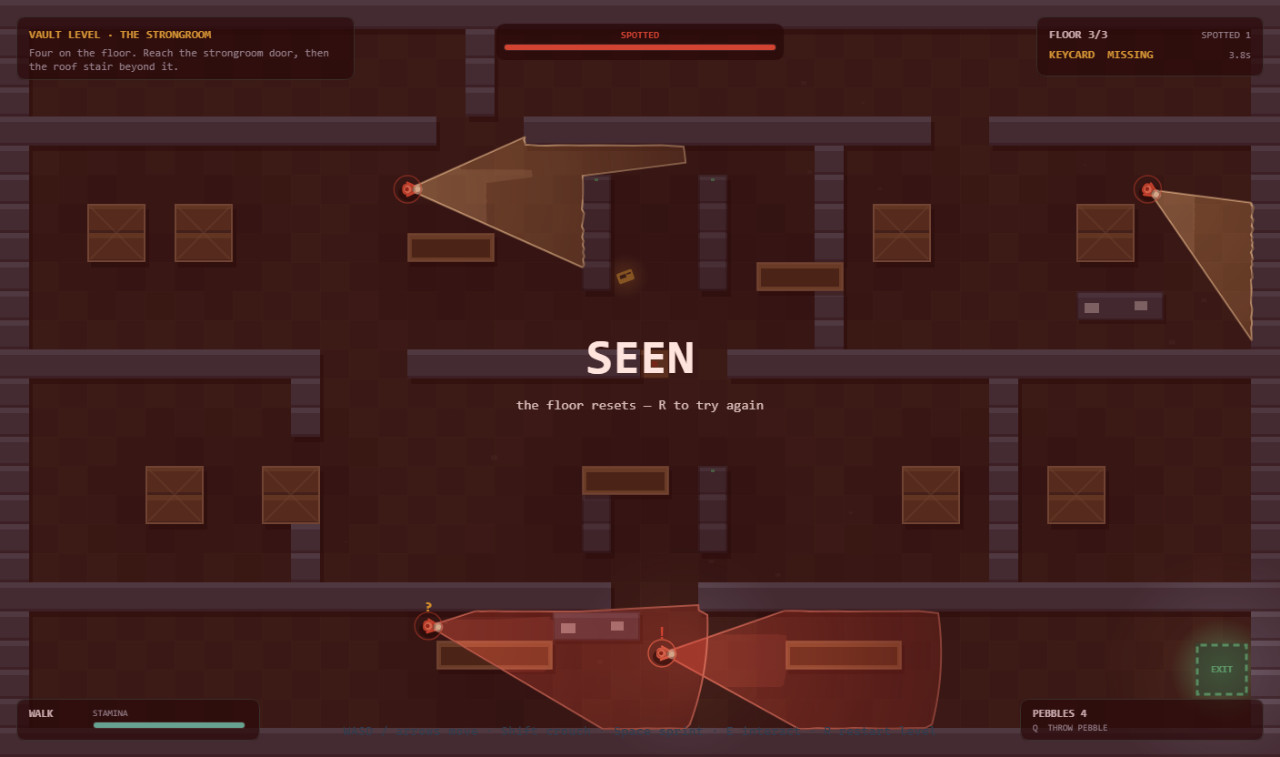
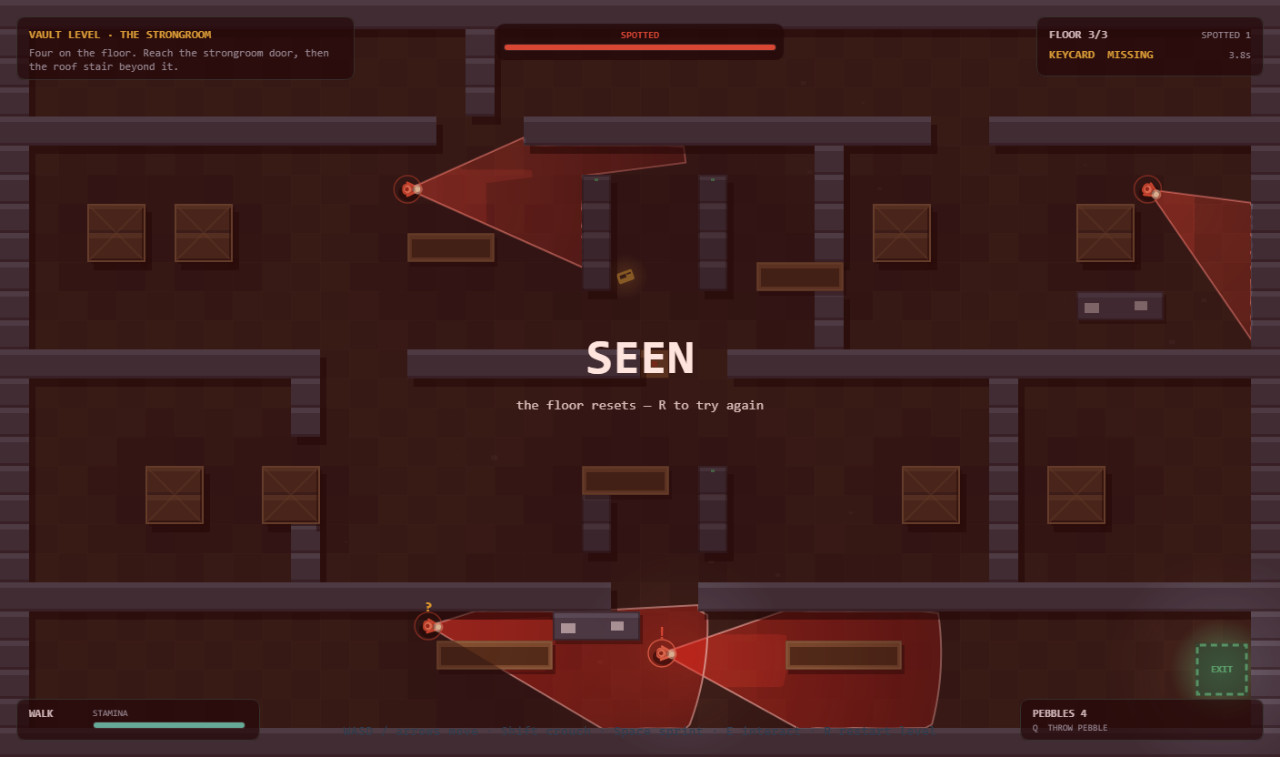
Read cover at a glance: red beams, tall crates, a player you can find
The judge sees this game mostly through four screenshots, so the frames have
to state the mechanic without a caption. Three changes:

- Beams are drawn under the props, so a cone now visibly stops at the crate
  that blocks it instead of painting over the box it is supposed to hit.
- Cones are red rather than amber. Amber shared a hue family with the wooden
  crates, so a beam and a box read as the same kind of thing.
- Crates get a cast shadow and a side face, so cover reads as tall; the player
  gets a larger body, a wider halo and a facing arrow, so 'where am I' is the
  first thing a thumbnail answers.

The cover scene is now staged from geometry: it searches for a crate that
genuinely breaks the sightline, stands the player against its far face and
puts the guard on the near side.

diff --git a/game/src/render.js b/game/src/render.js
@@ -104,12 +104,15 @@ function drawSolids(ctx, floor) {
   const isCrate = (tx, ty) => floor.crates.some((c) => tx >= c.x && tx < c.x + c.w && ty >= c.y && ty < c.y + c.h);
   const isRack = (tx, ty) => floor.racks.some((r) => tx >= r.x && tx < r.x + r.w && ty >= r.y && ty < r.y + r.h);
 
-  // One shadow pass first, so no shadow falls on a neighbour's body.
+  // One shadow pass first, so no shadow falls on a neighbour's body. The offset is deliberately
+  // large and constant, because that offset is what makes a solid read as TALL: a box with no
+  // shadow is a rectangle painted on the floor, and cover you cannot see the height of is cover
+  // you do not trust.
   for (let ty = 0; ty < floor.rows; ty += 1) {
     for (let tx = 0; tx < floor.cols; tx += 1) {
       if (floor.at(tx, ty) !== SOLID) continue;
-      ctx.fillStyle = 'rgba(0, 0, 0, 0.45)';
-      ctx.fillRect(tx * TILE + 4, ty * TILE + 6, TILE, TILE);
+      ctx.fillStyle = 'rgba(0, 0, 0, 0.55)';
+      ctx.fillRect(tx * TILE + 7, ty * TILE + 9, TILE, TILE);
     }
   }
 
@@ -140,6 +143,11 @@ function drawSolids(ctx, floor) {
     const y = c.y * TILE;
     const w = c.w * TILE;
     const h = c.h * TILE;
+    // A tall side face on the right and bottom, in the shadowed tone: this is what turns a
+    // rectangle into a box with height, and height is what makes it read as cover.
+    ctx.fillStyle = 'rgba(12, 8, 4, 0.55)';
+    ctx.fillRect(x + w - 4, y + 4, 6, h + 4);
+    ctx.fillRect(x + 4, y + h - 4, w + 2, 6);
     ctx.strokeStyle = COLORS.crateEdge;
     ctx.lineWidth = 2;
     ctx.strokeRect(x + 1, y + 1, w - 2, h - 2);
@@ -303,8 +311,12 @@ function drawCone(ctx, guard, floor) {
   const half = GUARD.coneHalfAngle;
   const steps = 44;
   const hot = guard.coneTint;
-  const fill = hot > 0.4 ? 'rgba(255, 92, 70, 0.34)' : 'rgba(255, 208, 120, 0.30)';
-  const rim = hot > 0.4 ? 'rgba(255, 150, 126, 1)' : 'rgba(255, 236, 178, 1)';
+  // Red, always. Amber sat in the same warm family as the wooden crates, so a beam and a box
+  // read as the same kind of thing; red is the one hue no prop uses, and it is the universal
+  // danger signal. Alerted goes hotter and more saturated. The rim is near-white so the beam's
+  // edge survives the downscale to a contact sheet.
+  const fill = hot > 0.4 ? 'rgba(255, 44, 32, 0.46)' : 'rgba(236, 52, 44, 0.30)';
+  const rim = hot > 0.4 ? 'rgba(255, 196, 186, 1)' : 'rgba(255, 154, 142, 0.92)';
 
   // The wedge, its far edge following whatever stops the light.
   const points = [];
@@ -351,7 +363,7 @@ function drawCone(ctx, guard, floor) {
     ctx.lineTo(guard.x + (p.x - guard.x) * 0.45, guard.y + (p.y - guard.y) * 0.45);
   }
   ctx.closePath();
-  ctx.fillStyle = hot > 0.4 ? 'rgba(255, 120, 96, 0.2)' : 'rgba(255, 230, 170, 0.18)';
+  ctx.fillStyle = hot > 0.4 ? 'rgba(255, 70, 52, 0.30)' : 'rgba(255, 92, 72, 0.20)';
   ctx.fill();
 }
 
@@ -468,44 +480,46 @@ function drawPlayer(ctx, player, floor, time) {
   ctx.arc(x, y, 20, 0, TAU);
   ctx.stroke();
 
-  // A soft halo, so the eye finds the player in a dark room without the body glowing.
-  const glow = ctx.createRadialGradient(x, y, 3, x, y, 26);
-  glow.addColorStop(0, 'rgba(79, 240, 216, 0.34)');
+  // A soft halo, so the eye finds the player in a dark room without the body glowing. Wide and
+  // strong, because "where am I" is the first question a stealth screenshot has to answer.
+  const glow = ctx.createRadialGradient(x, y, 3, x, y, 34);
+  glow.addColorStop(0, 'rgba(79, 240, 216, 0.46)');
+  glow.addColorStop(0.5, 'rgba(79, 240, 216, 0.14)');
   glow.addColorStop(1, 'rgba(79, 240, 216, 0)');
   ctx.fillStyle = glow;
   ctx.beginPath();
-  ctx.arc(x, y, 26, 0, TAU);
+  ctx.arc(x, y, 34, 0, TAU);
   ctx.fill();
 
   // Contact shadow.
   ctx.fillStyle = 'rgba(0,0,0,0.62)';
   ctx.beginPath();
-  ctx.ellipse(x + 2, y + 4, crouched ? 9 : 11, crouched ? 7 : 8, 0, 0, TAU);
+  ctx.ellipse(x + 3, y + 6, crouched ? 11 : 14, crouched ? 8 : 10, 0, 0, TAU);
   ctx.fill();
 
   ctx.save();
   ctx.translate(x, y);
   ctx.rotate(player.facing);   // the figure faces +x in its own frame
 
-  const shoulder = crouched ? 5.0 : 6.4;    // half the shoulder width
-  const reach = crouched ? 6.0 : 7.4;       // how far forward the hands sit
+  const shoulder = crouched ? 6.4 : 8.2;    // half the shoulder width
+  const reach = crouched ? 7.6 : 9.4;       // how far forward the hands sit
 
   // Shoulders and torso: one rounded bar across the body, dark inside, bright rim.
   ctx.fillStyle = COLORS.player;
-  roundRect(ctx, -6.5, -shoulder, 13, shoulder * 2, 4.5);
+  roundRect(ctx, -8.2, -shoulder, 16.4, shoulder * 2, 5.5);
   ctx.fill();
   ctx.fillStyle = COLORS.playerDark;
-  roundRect(ctx, -5.0, -shoulder + 1.6, 10, (shoulder - 1.6) * 2, 3.2);
+  roundRect(ctx, -6.3, -shoulder + 2, 12.6, (shoulder - 2) * 2, 3.8);
   ctx.fill();
 
   // Two arms reaching forward, ending in hands — the clearest "person" cue from above.
   ctx.strokeStyle = COLORS.player;
-  ctx.lineWidth = 2.6;
+  ctx.lineWidth = 3.2;
   ctx.lineCap = 'round';
   for (const side of [-1, 1]) {
     ctx.beginPath();
-    ctx.moveTo(1.5, side * (shoulder - 1.4));
-    ctx.lineTo(reach, side * (shoulder + (sprinting ? 1.4 : 0.4)));
+    ctx.moveTo(1.8, side * (shoulder - 1.8));
+    ctx.lineTo(reach, side * (shoulder + (sprinting ? 1.8 : 0.6)));
     ctx.stroke();
   }
   ctx.lineCap = 'butt';
@@ -513,13 +527,26 @@ function drawPlayer(ctx, player, floor, time) {
   // Head: a filled circle at the front, brighter than the body, with a dark visor gap.
   ctx.fillStyle = COLORS.playerHood;
   ctx.beginPath();
-  ctx.arc(1.2, 0, crouched ? 3.6 : 4.3, 0, TAU);
+  ctx.arc(1.6, 0, crouched ? 4.4 : 5.4, 0, TAU);
   ctx.fill();
   ctx.fillStyle = COLORS.playerDark;
   ctx.beginPath();
-  ctx.arc(2.4, 0, crouched ? 1.5 : 1.9, 0, TAU);
+  ctx.arc(3.0, 0, crouched ? 1.9 : 2.4, 0, TAU);
   ctx.fill();
 
+  ctx.restore();
+
+  // A facing arrow, outside the body, so the heading is legible even at thumbnail size.
+  ctx.save();
+  ctx.translate(x, y);
+  ctx.rotate(player.facing);
+  ctx.fillStyle = 'rgba(79, 240, 216, 0.9)';
+  ctx.beginPath();
+  ctx.moveTo(reach + 9, 0);
+  ctx.lineTo(reach + 2.5, -3.6);
+  ctx.lineTo(reach + 2.5, 3.6);
+  ctx.closePath();
+  ctx.fill();
   ctx.restore();
 
   // Crouched: a dashed ring marks the tighter profile, the same language as the smaller radius.
@@ -835,10 +862,16 @@ export function drawFrame(ctx, state, floor, buffer, time) {
   drawDoors(ctx, floor);
   drawExit(ctx, floor, time);
   for (const card of floor.keycards) drawKeycard(ctx, card, time);
+
+  // Cones go UNDER the props. The cone geometry already truncates each ray at the first tile
+  // that blocks sight, so a beam stops at a crate's edge; drawing the crate afterwards makes
+  // that stop crisp and unmistakable. Drawn on top, a beam paints across the very box it is
+  // supposed to be blocked by, and no screenshot can show cover doing its job.
+  for (const g of state.guards) drawCone(ctx, g, floor);
+
   drawSolids(ctx, floor);
   drawPebbles(ctx, state.pebblesInAir);
 
-  for (const g of state.guards) drawCone(ctx, g, floor);
   drawLighting(ctx, floor, state.guards, state.player, buffer);
 
   for (const g of state.guards) drawGuard(ctx, g, time);

diff --git a/game/src/shots.js b/game/src/shots.js
@@ -7,7 +7,7 @@ import { FLOORS } from './levels.js';
 import { Floor } from './floor.js';
 import { Player } from './player.js';
 import { makeGuards } from './guards.js';
-import { TILE } from './config.js';
+import { TILE, WORLD_W, WORLD_H } from './config.js';
 
 const STEP = 1 / 60;
 
@@ -172,13 +172,84 @@ export function stageScene(name) {
   }
 
   if (name === 'cover') {
-    // Crouched behind a low crate, with a guard's beam sweeping past the far side of it.
+    // The frame that states the whole mechanic: a guard's beam hard-stopping on a tall crate
+    // with the player crouched in the dark pocket behind it. This is staged from geometry, not
+    // guessed: pick a tall crate, stand the player tight against its far face, and put a guard
+    // on the near side aiming at the crate, so the cone's far edge lands on the box edge and
+    // the player sits just outside the light.
     const state = makeWorld(2);
-    settle(state, 130);
-    const spot = bestTile(state.floor, (tx, ty) => (besideLowCover(state.floor, tx, ty)
-      ? 100 + guardPresence(state, tx, ty) : -1));
-    if (spot) place(state, spot[0], spot[1], 'crouch', -Math.PI / 2);
-    settle(state, 90, { crouch: true });
+    settle(state, 120);
+
+    const T = TILE;
+    const crateTiles = state.floor.crates;
+    let best = null;
+    for (const c of crateTiles) {
+      // Candidate standing spots: the open tiles immediately below the crate (screen-down), so
+      // the crate sits between the player and a guard placed above it.
+      const cx = (c.x + c.w / 2) * T;
+      for (let ox = 0; ox < c.w; ox += 1) {
+        const tx = c.x + ox;
+        const ty = c.y + c.h;          // first tile past the crate's bottom edge
+        if (state.floor.blocksMove(tx, ty)) continue;
+        if (state.floor.blocksMove(tx, ty + 1)) continue;
+        // Nudge the player up inside the tile so the body actually touches the crate face —
+        // crouched against the box, not standing a body-width out in the open.
+        const px = tx * T + T / 2;
+        const py = ty * T + T / 2 - 11;
+        // A guard above the crate, close enough that its cone covers the crate but not so
+        // close that the frame is all guard.
+        const gy = (c.y - 3.2) * T;
+        if (gy < T) continue;
+        const gx = px;
+        if (state.floor.blocksMove(Math.floor(gx / T), Math.floor(gy / T))) continue;
+        // The crate must actually block the sightline from that guard to the player.
+        if (state.floor.clearLine(gx, gy, px, py)) continue;
+        const dist = Math.hypot(gx - px, gy - py);
+        // Prefer a mid distance so the cone and the crate both fit comfortably in frame, and
+        // prefer a crate near the middle of the map: staged in a far corner, the tableau sits
+        // under the HUD and reads as an afterthought instead of the subject of the shot.
+        const midX = WORLD_W / 2;
+        const midY = WORLD_H / 2;
+        const offCentre = Math.hypot(px - midX, py - midY);
+        const score = (100 - Math.abs(dist - T * 6.5)) - offCentre * 0.06;
+        if (!best || score > best.score) best = { score, px, py, gx, gy, crate: c };
+      }
+    }
+
+    if (best) {
+      // Put the guard where the geometry wants it, facing straight down at the crate.
+      const g = state.guards[0];
+      g.x = best.gx;
+      g.y = best.gy;
+      g.angle = Math.PI / 2;          // +y, i.e. down toward the crate
+      g.state = 'patrol';
+      g.suspicion = 0;
+      g.target = null;
+      // The other guards patrol at a distance from the tableau, on the same side, so the frame
+      // still reads as a patrolled room rather than one guard alone in an empty half.
+      state.guards.slice(1).forEach((o, i) => {
+        const sx = best.px + T * (i % 2 === 0 ? -4.5 : 4.5);
+        const sy = best.py + T * (2.2 + i * 1.6);
+        if (!state.floor.blocksMove(Math.floor(sx / T), Math.floor(sy / T))) {
+          o.x = sx;
+          o.y = sy;
+        }
+        o.angle = -Math.PI / 2;
+        o.state = 'patrol';
+        o.suspicion = 0;
+      });
+      place(state, Math.round(best.px / T - 0.5), Math.round(best.py / T - 0.5), 'crouch', Math.PI / 2);
+      // place() snaps to a tile centre; restore the exact pixel the search chose, so the body
+      // really is tucked against the crate face rather than a body-width out in the open.
+      state.player.x = best.px;
+      state.player.y = best.py;
+      // Face the player away from the beam — the pose of someone hiding, not confronting.
+      state.player.facing = Math.PI / 2;
+    } else {
+      const spot = bestTile(state.floor, (tx, ty) => (besideLowCover(state.floor, tx, ty)
+        ? 100 + guardPresence(state, tx, ty) : -1));
+      if (spot) place(state, spot[0], spot[1], 'crouch', -Math.PI / 2);
+    }
     return state;
   }
 

diff --git a/game/src/config.js b/game/src/config.js
@@ -65,17 +65,17 @@ export const COLORS = {
   wall: '#4a5d72',
   wallTop: '#6b8299',
   wallShade: '#1b242e',
-  crate: '#7a5f3a',
-  crateTop: '#9c7a4b',
-  crateEdge: '#c2a273',
+  crate: '#5f4a30',
+  crateTop: '#7d6340',
+  crateEdge: '#a8875c',
   rack: '#3c4d5e',
   rackTop: '#54697d',
   rackLed: '#57e39b',
   desk: '#46566a',
   deskTop: '#5d7189',
   paper: '#e6eef7',
-  lowCrate: '#8a6a3e',
-  lowTop: '#b08a52',
+  lowCrate: '#6d5232',
+  lowTop: '#8f6d43',
   guard: '#e2563c',
   guardDark: '#a02f1e',
   guardHead: '#ff8a6a',
